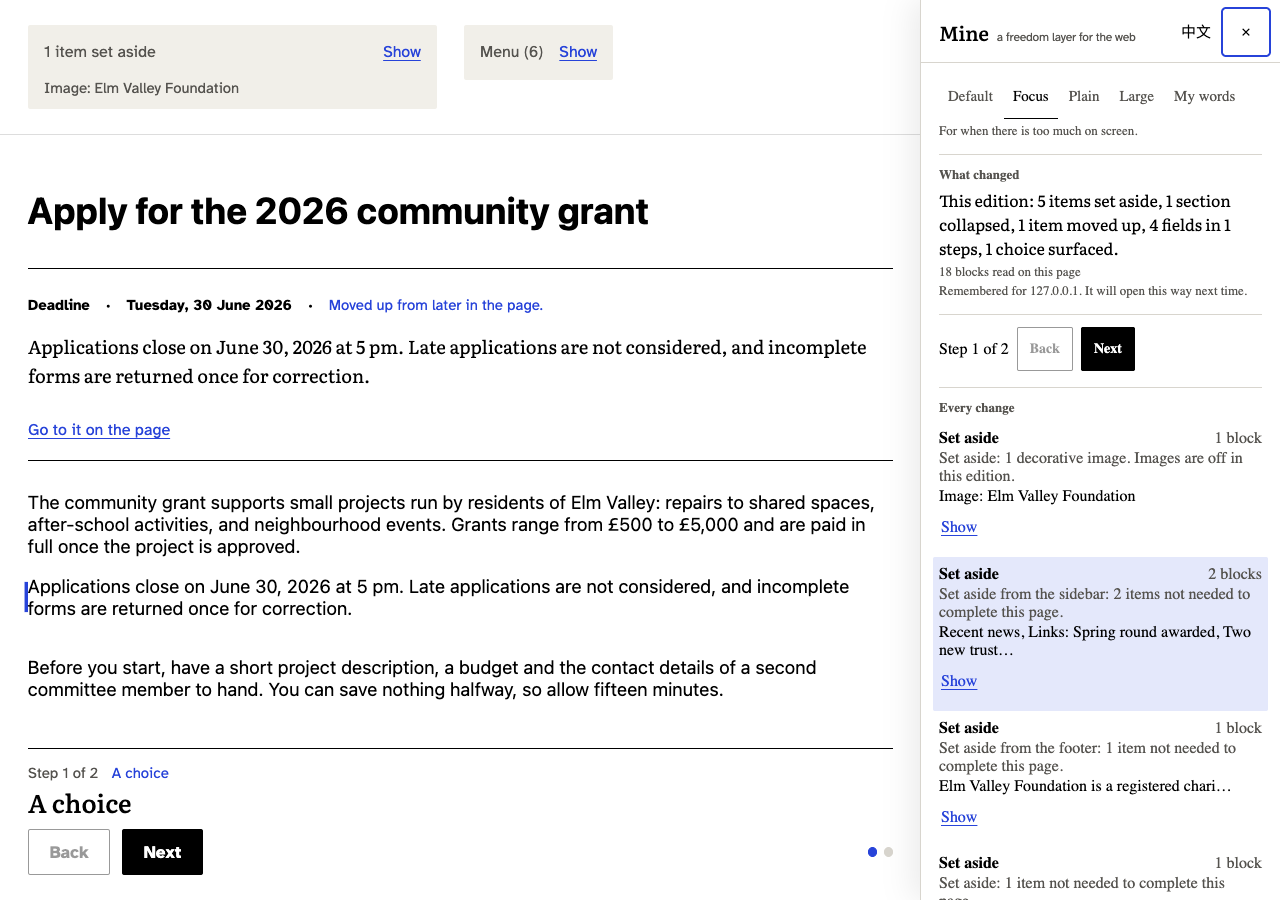
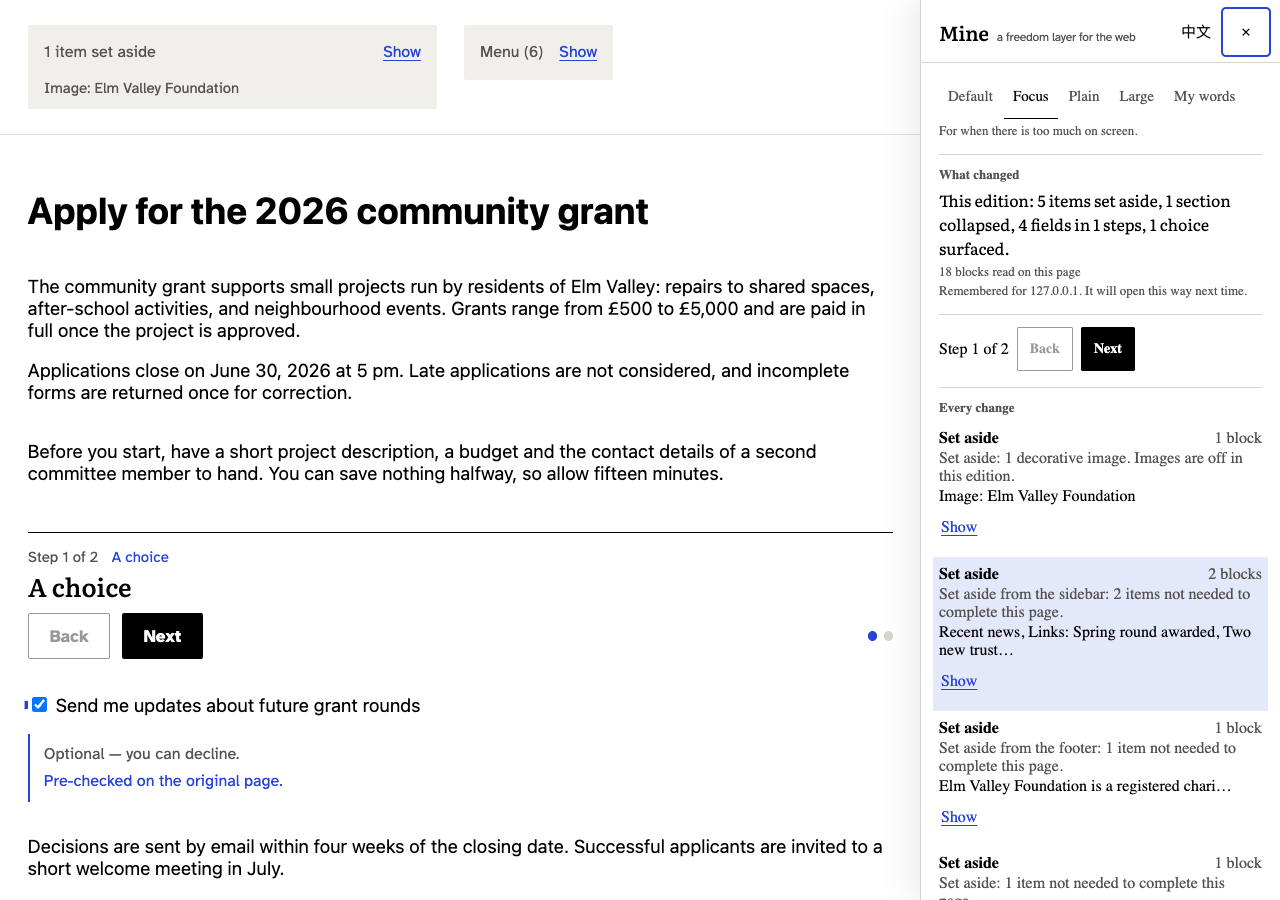
Extension: lessons from a real-site walk — live-deadline window (30 d past … 3 y ahead, clock injectable), one-at-a-time only from four fields up, site walk script (tools/ext/sites.cjs) with site-originated errors not counted; 302 extension tests, e2e 92/92, 7/7 reachable sites clean

diff --git a/extension/test/review-fixes.test.ts b/extension/test/review-fixes.test.ts
@@ -1,3 +1,5 @@
+// Fixture dates are written for mid-2026; pin the clock so they stay live deadlines.
+const FIXTURE_NOW = Date.parse('2026-06-01T00:00:00Z');
 // Extractor-side fixes from docs/review-extension-2026-09-06.md, one describe per finding
 // (numbers in the titles refer to that file). Inline snippets; the three framework fixtures
 // (elementor, element-ui, gov-table-form) cover the rest.
@@ -18,7 +20,7 @@ describe('[0] a control box never swallows an action or foreign content', () => 
     <div class="row"><label for="w">Website</label><input id="w" type="text"><a class="btn" href="/check">Check</a></div>
     <div class="row"><label for="c">Comment</label><textarea id="c"></textarea><span class="hint">Optional</span></div>
   </form></main></body>`);
-  const page = extractPage(doc);
+  const page = extractPage(doc, { now: FIXTURE_NOW });
 
   it('keeps buttons (even icon-only ones) and link-buttons out of every field box', () => {
     const fields = fieldsOf(page);
@@ -46,7 +48,7 @@ describe('[1] widget classes never float or sidebar content inside main', () => 
     <div class="elementor-widget elementor-widget-text-editor"><div class="elementor-widget-container"><p>${LOREM} Second.</p></div></div>
     <div class="widgets-area"><p>${LOREM} Third.</p></div>
   </main><aside class="widget-area"><div class="widget"><ul><li><a href="/a">Alpha</a></li><li><a href="/b">Beta</a></li><li><a href="/c">Gamma</a></li></ul></div></aside></body>`);
-  const page = extractPage(doc);
+  const page = extractPage(doc, { now: FIXTURE_NOW });
 
   it('keeps the three paragraphs as primary main text and the aside as the only sidebar', () => {
     const texts = byKind(page, 'text');
@@ -65,7 +67,7 @@ describe('[2] link lists and breadcrumbs holding controls are not composite navs
     <nav><a href="/">Home</a><a href="/a">A</a><a href="/b">B</a><a href="/c">C</a><a href="/d">D</a></nav>
     <button type="submit">Go</button>
   </form></main></body>`);
-  const page = extractPage(doc);
+  const page = extractPage(doc, { now: FIXTURE_NOW });
 
   it('still yields both required fields, and no nav box holds a field node', () => {
     const fields = fieldsOf(page);
@@ -89,7 +91,7 @@ describe('[10] faq composites only with a shared wrapper', () => {
     <h3>What documents do I need?</h3><p>Your ID and a proof of address.</p><p>Bring the originals to the appointment.</p>
     <h2>Need help?</h2><p>Call 020 7946 0000 on weekdays between nine and five.</p>
   </main></body>`);
-  const page = extractPage(doc);
+  const page = extractPage(doc, { now: FIXTURE_NOW });
 
   it('pairs the wrapped question with its answer and gives the pair the wrapper as its box', () => {
     const faq = findBlock(page, 'Can I apply twice?')!;
@@ -134,7 +136,7 @@ describe('[14][15][20][22] the floating rule never demotes a deadline, a primary
       <div id="feedback" class="feedback-widget" style="position:fixed;right:0;bottom:0"><p>We would love your feedback on this page. Tell us what you think about the new design.</p><button type="button">Give feedback</button></div>
       <p>${LOREM}</p>
     </main></body>`);
-  const page = extractPage(doc);
+  const page = extractPage(doc, { now: FIXTURE_NOW });
 
   it('keeps the sticky top bar as the primary site menu, not a notice', () => {
     const menu = navsOf(page).find((n) => n.importance === 'primary')!;
@@ -175,7 +177,7 @@ describe('[18][19] attestations: agree/accept/acknowledge about terms or policy,
     <div><input type="checkbox" id="c7"> 同意接收活动推送消息</div>
     <button type="submit">Send</button>
   </form></main></body>`);
-  const page = extractPage(doc);
+  const page = extractPage(doc, { now: FIXTURE_NOW });
 
   it('reads the labels from the trailing text or span and decides optional by the subject of the agreement', () => {
     expect(decisionsOf(page).map((d) => [d.label, d.optional, d.importance])).toEqual([
@@ -200,7 +202,7 @@ describe('[21] notice classes only demote small containers; 日前 / on or befor
     <div class="notice-tip">温馨提示：办理时请携带身份证原件及复印件各一份。</div>
     <div class="alert"><p>注意：请于6月30日前完成网上申报，逾期不再受理。</p></div>
   </main></body></html>`);
-  const page = extractPage(doc);
+  const page = extractPage(doc, { now: FIXTURE_NOW });
 
   it('keeps the body paragraphs of a large .notice container primary text, and the small tip a secondary notice', () => {
     const body = byKind(page, 'text').filter((t) => t.text.startsWith('为贯彻落实'));
@@ -232,7 +234,7 @@ describe('[29][30] a page-wide form is narrowed to its controls; controls outsid
     </div>
     <div class="footer"><p>© Elm County. All rights reserved by the council.</p><input type="submit" value="Send feedback"></div>
   </form></body>`);
-  const page = extractPage(doc);
+  const page = extractPage(doc, { now: FIXTURE_NOW });
 
   it('narrows the form root to the common wrapper of the main controls (here the content column, since the newsletter field is in main)', () => {
     expect(page.form).toBe(doc.querySelector('.content'));
@@ -272,7 +274,7 @@ describe('[38][39] validation messages are help text; live regions are never sec
   <div role="status">Your draft was saved a moment ago and will be kept for thirty days.</div>
   <div class="alert alert-info">Offices are closed on public holidays and the day after them.</div>
   </main></body>`);
-  const page = extractPage(doc);
+  const page = extractPage(doc, { now: FIXTURE_NOW });
 
   it('folds .invalid-feedback into the field as help', () => {
     expect(fieldsOf(page)[0]).toMatchObject({ label: 'Email', help: 'Please provide a valid email address.' });
@@ -298,7 +300,7 @@ describe('[45] promo/header class rules do not catch primary content', () => {
       <div class="promo-box"><p>Download the app for reminders on your phone and updates about your case.</p><a href="/app">Get it</a></div>
       <p>${LOREM}</p>
     </div></body>`);
-  const page = extractPage(doc);
+  const page = extractPage(doc, { now: FIXTURE_NOW });
 
   it('does not make .page-header a header root, and keeps its h1 the primary level-1 title', () => {
     expect(page.regions.get('header')).toBeUndefined();
@@ -325,7 +327,7 @@ describe('[46] the main root holds every control that follows the title', () => 
       <div class="apply"><h2>Apply</h2><form><label for="a">Name</label><input id="a" required><label for="b">Email</label><input id="b" type="email"><button type="submit">Apply</button></form></div>
       <div class="site-footer"><p>© 2026 Elm County Council. All rights reserved.</p></div>
     </div></body>`);
-    const page = extractPage(doc);
+    const page = extractPage(doc, { now: FIXTURE_NOW });
     expect(page.main.contains(doc.querySelector('form')!)).toBe(true);
     expect(page.main.contains(doc.querySelector('article')!)).toBe(true);
     expect(fieldsOf(page).map((f) => [f.label, f.region])).toEqual([
@@ -342,7 +344,7 @@ describe('[46] the main root holds every control that follows the title', () => 
       <tr><td class="menu">${MENU}</td><td class="body"><h1>Permit</h1><p>${LOREM}</p><p>${LOREM} Twice.</p><p>${LOREM} Thrice.</p></td></tr>
       <tr><td colspan="2"><form><label for="a">Name</label><input id="a"><label for="b">Plate</label><input id="b"><input type="submit" value="Apply"></form></td></tr>
     </tbody></table></body>`);
-    const page = extractPage(doc);
+    const page = extractPage(doc, { now: FIXTURE_NOW });
     expect(page.main.contains(doc.querySelector('form')!)).toBe(true);
     expect(fieldsOf(page).map((f) => [f.label, f.region])).toEqual([
       ['Name', undefined],
@@ -361,7 +363,7 @@ describe('[47] tab bars are not navigation', () => {
     <button type="submit">Submit</button>
   </form></main>
   <footer><ul><li><a href="/privacy">Privacy</a></li><li><a href="/terms">Terms</a></li><li><a href="/contact">Contact</a></li></ul></footer></body>`);
-  const page = extractPage(doc);
+  const page = extractPage(doc, { now: FIXTURE_NOW });
 
   it('emits one primary, ungrouped action per tab and keeps real link lists as navs', () => {
     const tabs = actionsOf(page).filter((a) => !a.primary);
@@ -388,7 +390,7 @@ describe('[63] a header search form is never the form root', () => {
       <div class="MuiFormControl-root"><label for="e">Email</label><input id="e" type="email"></div>
       <button type="button" class="MuiButton-containedPrimary">Create account</button>
     </div></main></body>`);
-  const page = extractPage(doc);
+  const page = extractPage(doc, { now: FIXTURE_NOW });
 
   it('picks the common wrapper of the main controls and skips the search box as chrome', () => {
     expect(page.form).toBe(doc.querySelector('.MuiBox-root'));
@@ -407,7 +409,7 @@ describe('[64] attachment and download lists in main are instructions, not navs'
       <ul><li><a href="a.pdf">Application form (PDF)</a></li><li><a href="b.docx">Budget template (DOCX)</a></li><li><a href="c.xlsx">Cost sheet (XLSX)</a></li></ul>
       <ul><li><a href="/about">About us</a></li><li><a href="/news">News</a></li><li><a href="/contact">Contact</a></li></ul>
     </main></body>`);
-    const page = extractPage(doc);
+    const page = extractPage(doc, { now: FIXTURE_NOW });
     const list = findBlock(page, 'Budget template')!;
     expect(list.kind).toBe('instruction');
     expect(list.importance).toBe('primary');
@@ -419,7 +421,7 @@ describe('[64] attachment and download lists in main are instructions, not navs'
 describe('[53] rootOf maps every rooted block to its region root element', () => {
   it('uses the header/footer roots and main, and omits blocks that only have a position', () => {
     const doc = parseHtml(`<body><header><nav>${MENU}</nav></header><main><p>${LOREM}</p></main><footer><p>© 2026 Elm County Council. All rights reserved.</p></footer><div class="chat" style="position:fixed"><button type="button">Chat with us</button></div></body>`);
-    const page = extractPage(doc);
+    const page = extractPage(doc, { now: FIXTURE_NOW });
     const [nav, text, footer, chat] = page.content.blocks;
     expect([nav!.kind, text!.kind, footer!.kind, chat!.kind]).toEqual(['nav', 'text', 'text', 'action']);
     expect(page.rootOf?.get(nav!.id)).toBe(doc.querySelector('header'));

diff --git a/extension/src/extract/kinds.ts b/extension/src/extract/kinds.ts
@@ -548,13 +548,22 @@ function isPromoBox(node: Element, ctx: ExtractContext): boolean {
   return smallContainer(node, ctx) && !node.querySelector(HEADING_SELECTOR) && !hasPrimaryActionInside(node, ctx);
 }
 
+/** A dated sentence is a live deadline only within a window: 30 days past to 3 years ahead of `now`.
+ *  (A 2019 date in an encyclopaedia article is history, not something to echo at the top.) */
+export function isLiveDeadline(iso: string, now: number): boolean {
+  const t = Date.parse(`${iso}T00:00:00Z`);
+  if (Number.isNaN(t)) return false;
+  const day = 86_400_000;
+  return t >= now - 30 * day && t <= now + 3 * 365 * day;
+}
+
 /** Kind + importance of a text leaf. `region` decides plain text's importance. */
 export function classifyText(el: Element, text: string, region: Region, ctx: ExtractContext): TextClass {
   const hits = legalHits(text);
   const plain: TextClass = { kind: 'text', importance: region === 'main' ? 'primary' : 'secondary', legalHits: hits };
   // a dated deadline and legal/privacy prose are critical wherever they sit — before the floating test
   const date = findDeadline(text, ctx.lang);
-  if (date) return { kind: 'deadline', importance: 'critical', date, legalHits: hits };
+  if (date && isLiveDeadline(date, ctx.now)) return { kind: 'deadline', importance: 'critical', date, legalHits: hits };
   if ((hits >= 2 && isLegalProse(el, text)) || containerHit(el, ctx, isLegalContainer)) {
     return { kind: 'legal', importance: PRIVACY.test(text) ? 'critical' : 'primary', legalHits: hits };
   }

diff --git a/extension/test/live-deadline.test.ts b/extension/test/live-deadline.test.ts
@@ -1,0 +1,29 @@
+import { describe, expect, it } from 'vitest';
+import { extractPage } from '../src/extract/index.ts';
+import { isLiveDeadline } from '../src/extract/kinds.ts';
+
+const NOW = Date.parse('2026-09-06T00:00:00Z');
+const page = (html: string) => {
+  document.body.innerHTML = html;
+  return extractPage(document, { lang: 'en', now: NOW });
+};
+
+describe('a dated sentence is a deadline only when it is live', () => {
+  it('window: 30 days past to 3 years ahead', () => {
+    expect(isLiveDeadline('2026-10-23', NOW)).toBe(true);
+    expect(isLiveDeadline('2026-08-20', NOW)).toBe(true);
+    expect(isLiveDeadline('2026-07-01', NOW)).toBe(false);
+    expect(isLiveDeadline('2019-05-28', NOW)).toBe(false);
+    expect(isLiveDeadline('2030-01-01', NOW)).toBe(false);
+    expect(isLiveDeadline('nonsense', NOW)).toBe(false);
+  });
+  it('a historical date in an article stays text; an upcoming one is a critical deadline', () => {
+    const p = page(`<main><h1>Accessibility</h1>
+      <p>The directive set a deadline of 28 May 2019 for public bodies to comply with the rules on websites.</p>
+      <p>Applications must be received by 23 October 2026 to be considered.</p></main>`);
+    const kinds = p.content.blocks.map((b) => b.kind);
+    expect(kinds.filter((k) => k === 'deadline')).toHaveLength(1);
+    const dl = p.content.blocks.find((b) => b.kind === 'deadline');
+    expect(dl && 'date' in dl ? dl.date : null).toBe('2026-10-23');
+  });
+});

diff --git a/extension/test/gov-table-form.test.ts b/extension/test/gov-table-form.test.ts
@@ -1,3 +1,5 @@
+// Fixture dates are written for mid-2026; pin the clock so they stay live deadlines.
+const FIXTURE_NOW = Date.parse('2026-06-01T00:00:00Z');
 // A Chinese government "table form": a <table> of label cells and input cells, radios with
 // trailing text labels, a captcha image with onclick, an image submit and a javascript: back
 // link, 本人承诺 / 我已阅读并同意 checkboxes with trailing text, an attachment list, a small
@@ -10,7 +12,7 @@ import { actionsOf, blockText, boxHoldsOnlyItsControl, byKind, deadlinesOf, deci
 
 describe('gov-table-form.html', () => {
   const doc = loadFixture('gov-table-form.html');
-  const page = extractPage(doc);
+  const page = extractPage(doc, { now: FIXTURE_NOW });
   const { meta } = page.content;
 
   it('validates, sniffs Chinese, and picks the content column as main with the form inside', () => {

diff --git a/extension/test/elementor.test.ts b/extension/test/elementor.test.ts
@@ -1,3 +1,5 @@
+// Fixture dates are written for mid-2026; pin the clock so they stay live deadlines.
+const FIXTURE_NOW = Date.parse('2026-06-01T00:00:00Z');
 // An Elementor (WordPress) page: every element carries `elementor-widget*` classes, the form is
 // an `elementor-form` with `elementor-field-group` wrappers, an acceptance checkbox whose label
 // links to the privacy policy, a semantic header/main/aside/footer, and a fixed back-to-top link.
@@ -10,7 +12,7 @@ import { actionsOf, blockText, boxHoldsOnlyItsControl, byKind, deadlinesOf, deci
 
 describe('elementor.html', () => {
   const doc = loadFixture('elementor.html');
-  const page = extractPage(doc);
+  const page = extractPage(doc, { now: FIXTURE_NOW });
   const { blocks, meta } = page.content;
 
   it('validates and finds the semantic landmarks, none of them inside main', () => {

diff --git a/extension/src/extract/index.ts b/extension/src/extract/index.ts
@@ -95,6 +95,8 @@ export type { Region } from './context.ts';
 export interface ExtractOptions {
   lang?: Lang;
   maxBlocks?: number;
+  /** The clock used to judge whether a dated sentence is a live deadline (default: now). */
+  now?: Date | number;
 }
 
 export interface ExtractedPage {
@@ -180,6 +182,7 @@ function extract(doc: Document, opts: ExtractOptions): ExtractedPage {
     body,
     lang,
     maxBlocks,
+    now: opts.now instanceof Date ? opts.now.getTime() : typeof opts.now === 'number' ? opts.now : Date.now(),
     roots: regionInfo.roots,
     main: regionInfo.main,
     siteMenu: regionInfo.siteMenu,

diff --git a/extension/src/controller.ts b/extension/src/controller.ts
@@ -330,6 +330,9 @@ export class Controller {
         else notice = t(lang, 'ext.plainUnavailable');
       }
     }
+    // One-at-a-time only makes sense with a real form (four fields or more): a search box, a login pair or a three-field contact form stays as it is.
+    const fieldCount = content.blocks.filter((b) => b.kind === 'field').length;
+    if (prefs.taskMode === 'one-at-a-time' && fieldCount < 4) prefs = { ...prefs, taskMode: 'all' };
     const tr = transform(content, prefs);
     page = { ...page, content };
     // The applier reports user steps and stub toggles here so the panel follows the page.

diff --git a/extension/src/extract/regions.ts b/extension/src/extract/regions.ts
@@ -168,7 +168,7 @@ export function findRegions(doc: Document, body: Element): RegionInfo {
   // utility roots
   const topAnchor = headerRoot ?? siteMenu ?? (main !== body ? main : null);
   const partial: ExtractContext = {
-    doc, body, lang: 'en', maxBlocks: 0, roots, main, siteMenu, anchor, form: null,
+    doc, body, lang: 'en', maxBlocks: 0, now: 0, roots, main, siteMenu, anchor, form: null,
     controls: new Map(), memberOf: new Map(), consumed: new Set(), headings: [],
   };
   for (const nav of navLikes) {

diff --git a/extension/src/extract/context.ts b/extension/src/extract/context.ts
@@ -29,6 +29,8 @@ export interface ExtractContext {
   body: Element;
   lang: Lang;
   maxBlocks: number;
+  /** Epoch ms used to judge whether a dated sentence is a live deadline. */
+  now: number;
   /** Region roots other than main, nearest ancestor wins. */
   roots: Map<Element, Region>;
   /** The main content root. */

diff --git a/DECISIONS.md b/DECISIONS.md
@@ -21,3 +21,4 @@ One line each. Newest at the bottom.
 - 2026-09-06 · Large uses `body { zoom }` (Chromium, Safari, Firefox 126+) instead of touching the site's font sizes; Mine's own panel counter-zooms.
 - 2026-09-06 · Plain API for the extension (EXTENSION.md §4): `POST /api/plain` `{ lang: 'en'|'zh', blocks: 1–12 × { id, text (1–1500 chars), kind: text|legal|instruction|faq|notice|deadline|field-help|decision-label } }` → `{ rewrites: [{ id, plainText, terms: [{ term, plain }] }], ms }`; shared handler `server/plain.ts` behind the Vercel function `api/plain.ts` and the Vite router. One batched completion (JSON mode where supported, temperature 0, 200 tokens per block capped at 2400, 12 s deadline, retry once with the parser error). §11's number rule is enforced by the server, not entrusted to the prompt: a rewrite is dropped, never patched, when its digit multiset differs from the original, its length leaves the 20 %–130 % window, or it introduces a URL; `legal` and `decision-label` blocks come back as short summaries for display beside the original. Terms are filtered rather than dropped with the block: kept only when they appear verbatim in the original, carry a definition, and add no digit run or URL, at most the first 4. No key → `503 { error: 'no-model' }` (the demo's build-time plain content is unaffected); model failure or timeout → `200 { rewrites: [] }`.
 - 2026-09-06 · CORS `*` (POST, OPTIONS; content-type; preflight → 204) on both `/api/*` routes in both runtimes through `server/cors.ts`, because the extension calls the API from whatever page the person is on. `makeChatCall` gained an optional `maxTokens` (still 400 for `/api/interpret`). Vite's own CORS middleware is turned off (`server.cors` / `preview.cors: false`): it answers preflights before plugin middleware and, by default, only for localhost origins, which would have failed the extension's preflight from a real page; the router now owns CORS for the two API routes and nothing else is opened cross-origin.
+- 2026-09-06 · Real-site walk (gov.cn 403'd; beijing.gov.cn, gov.uk, usa.gov, MDN, w3schools, Wikipedia, GitHub login): two rules added from what we saw. A dated sentence is a *deadline* only when the date lies within 30 days past to 3 years ahead of now (a 2019 date in an encyclopaedia article was being echoed at the top); the extractor takes `opts.now` and tests pin it. And one-at-a-time is applied only when the page has at least four fields (a homepage search box or a login pair must not become a stepper); the preset's other settings still apply. Site-originated console errors (ad scripts, bad attributes) are recorded but not counted against Mine in tools/ext/sites.cjs.
